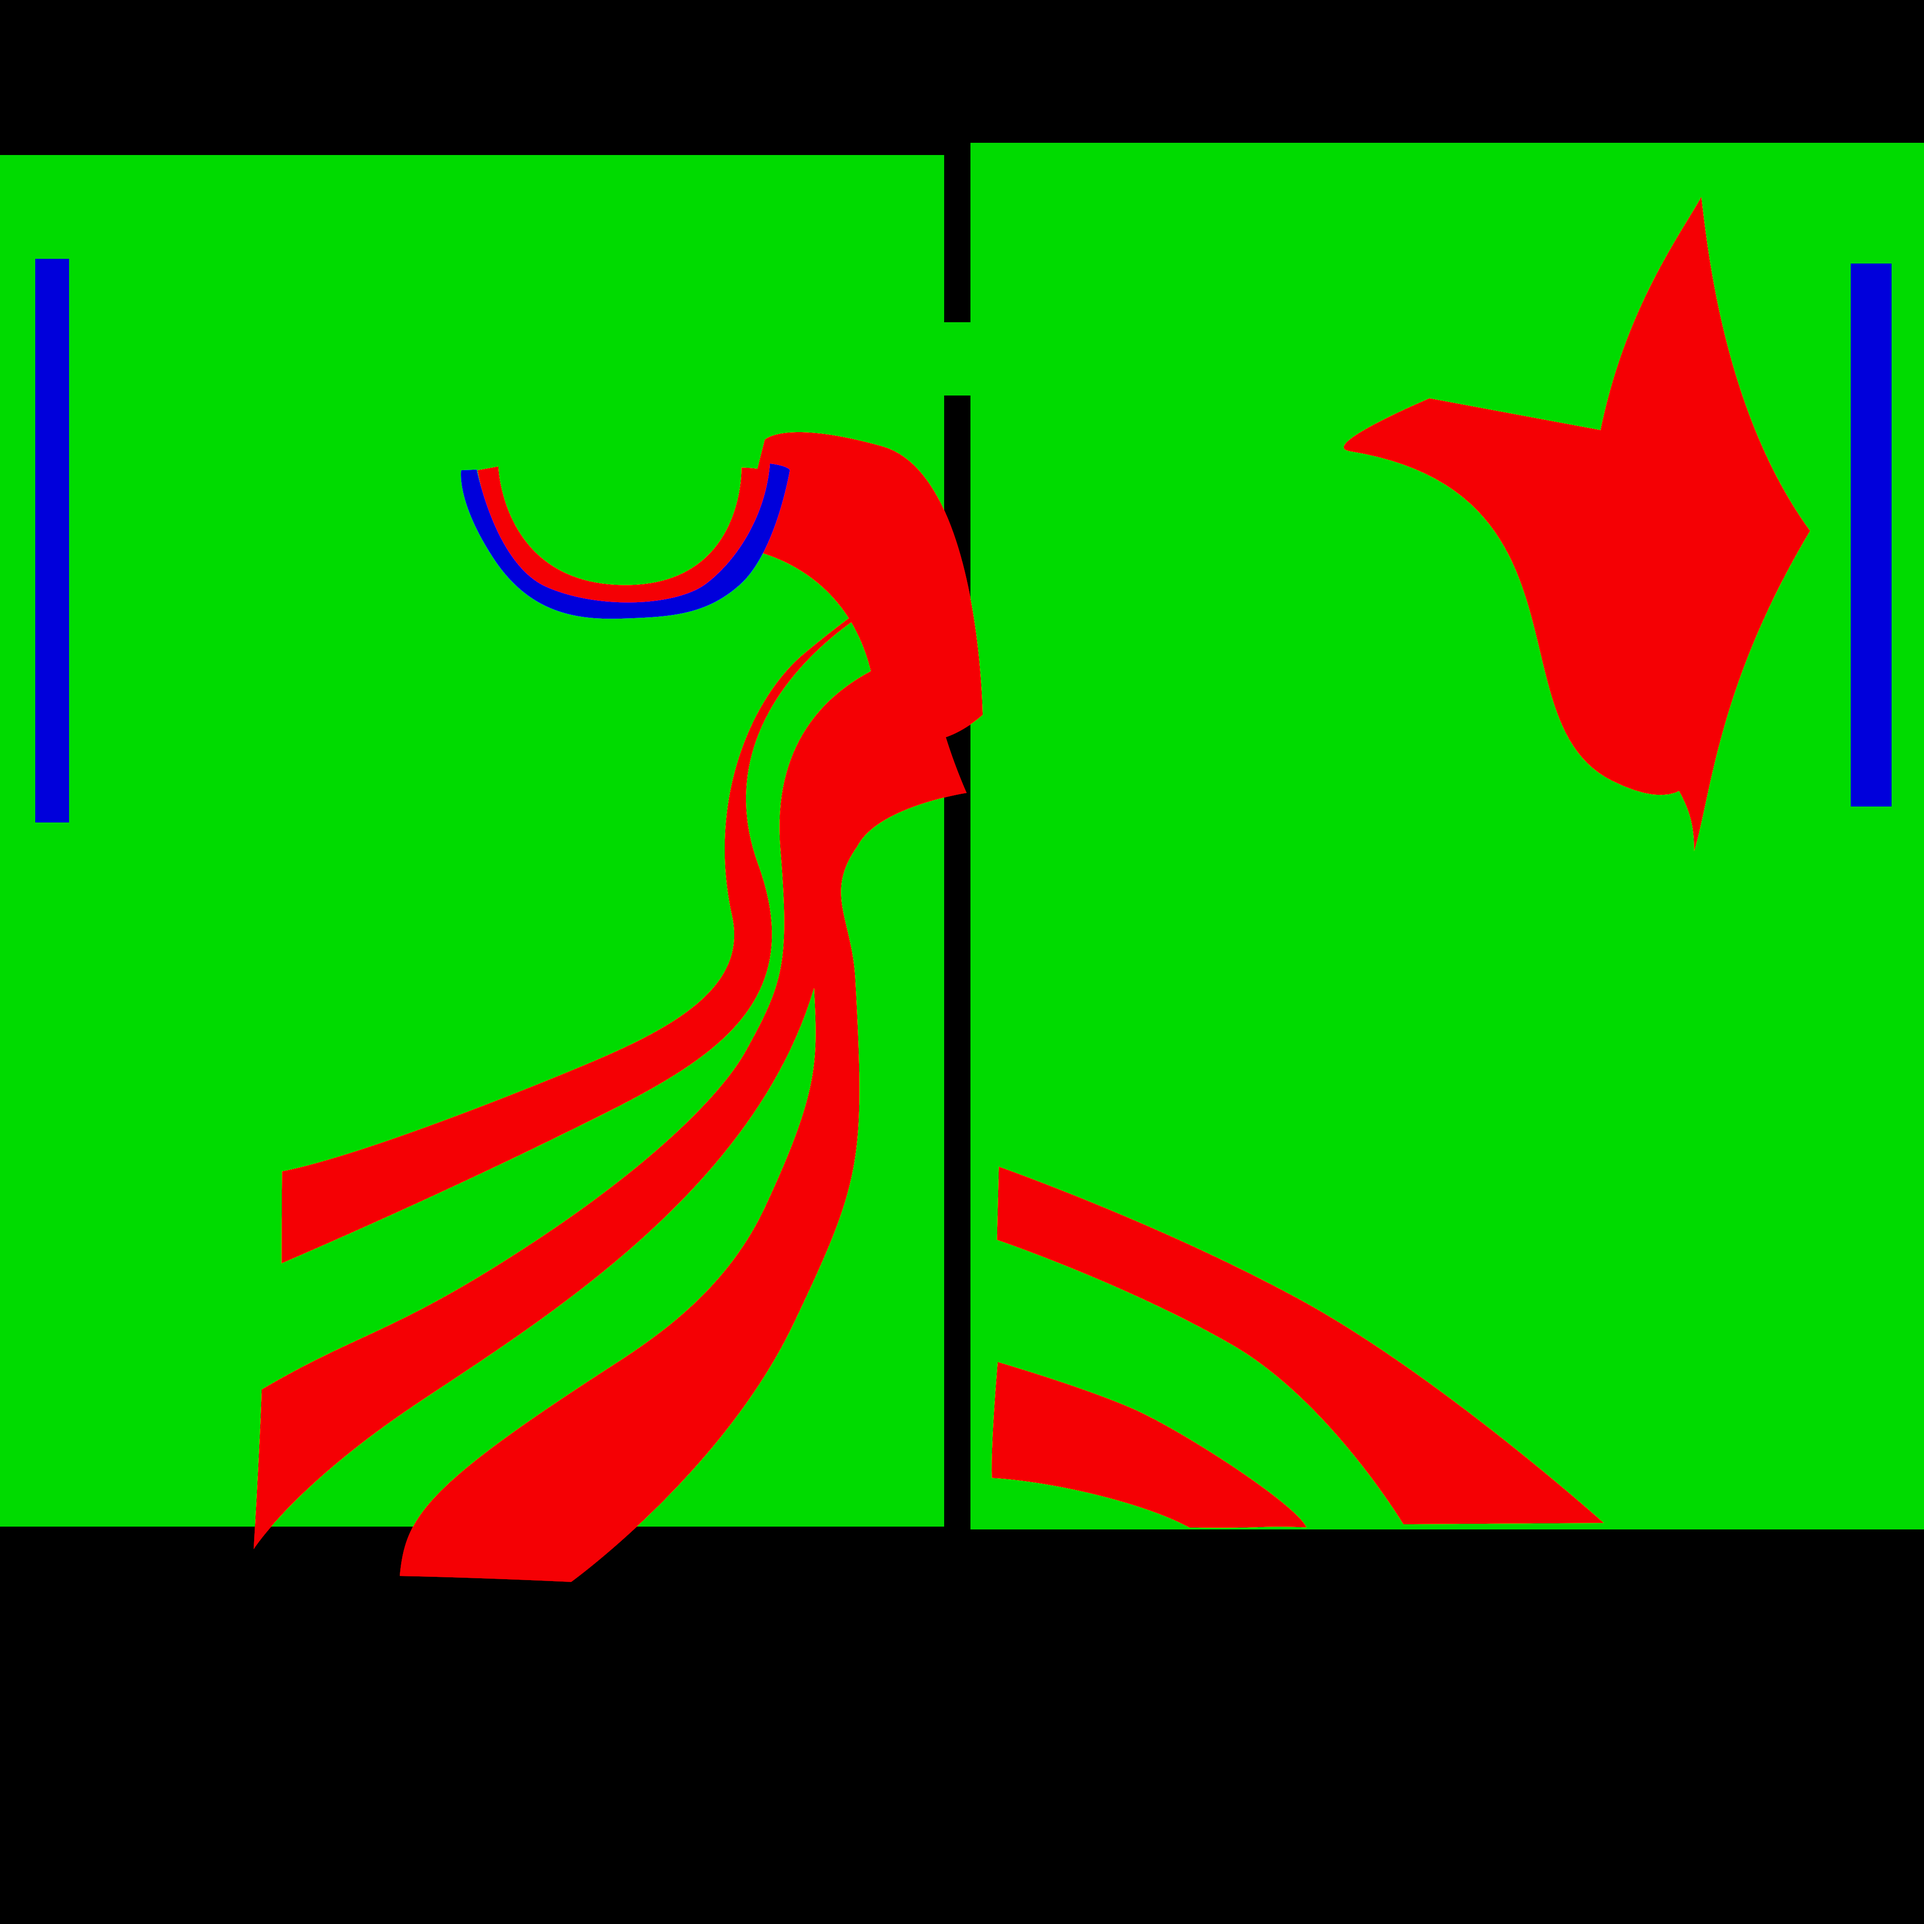
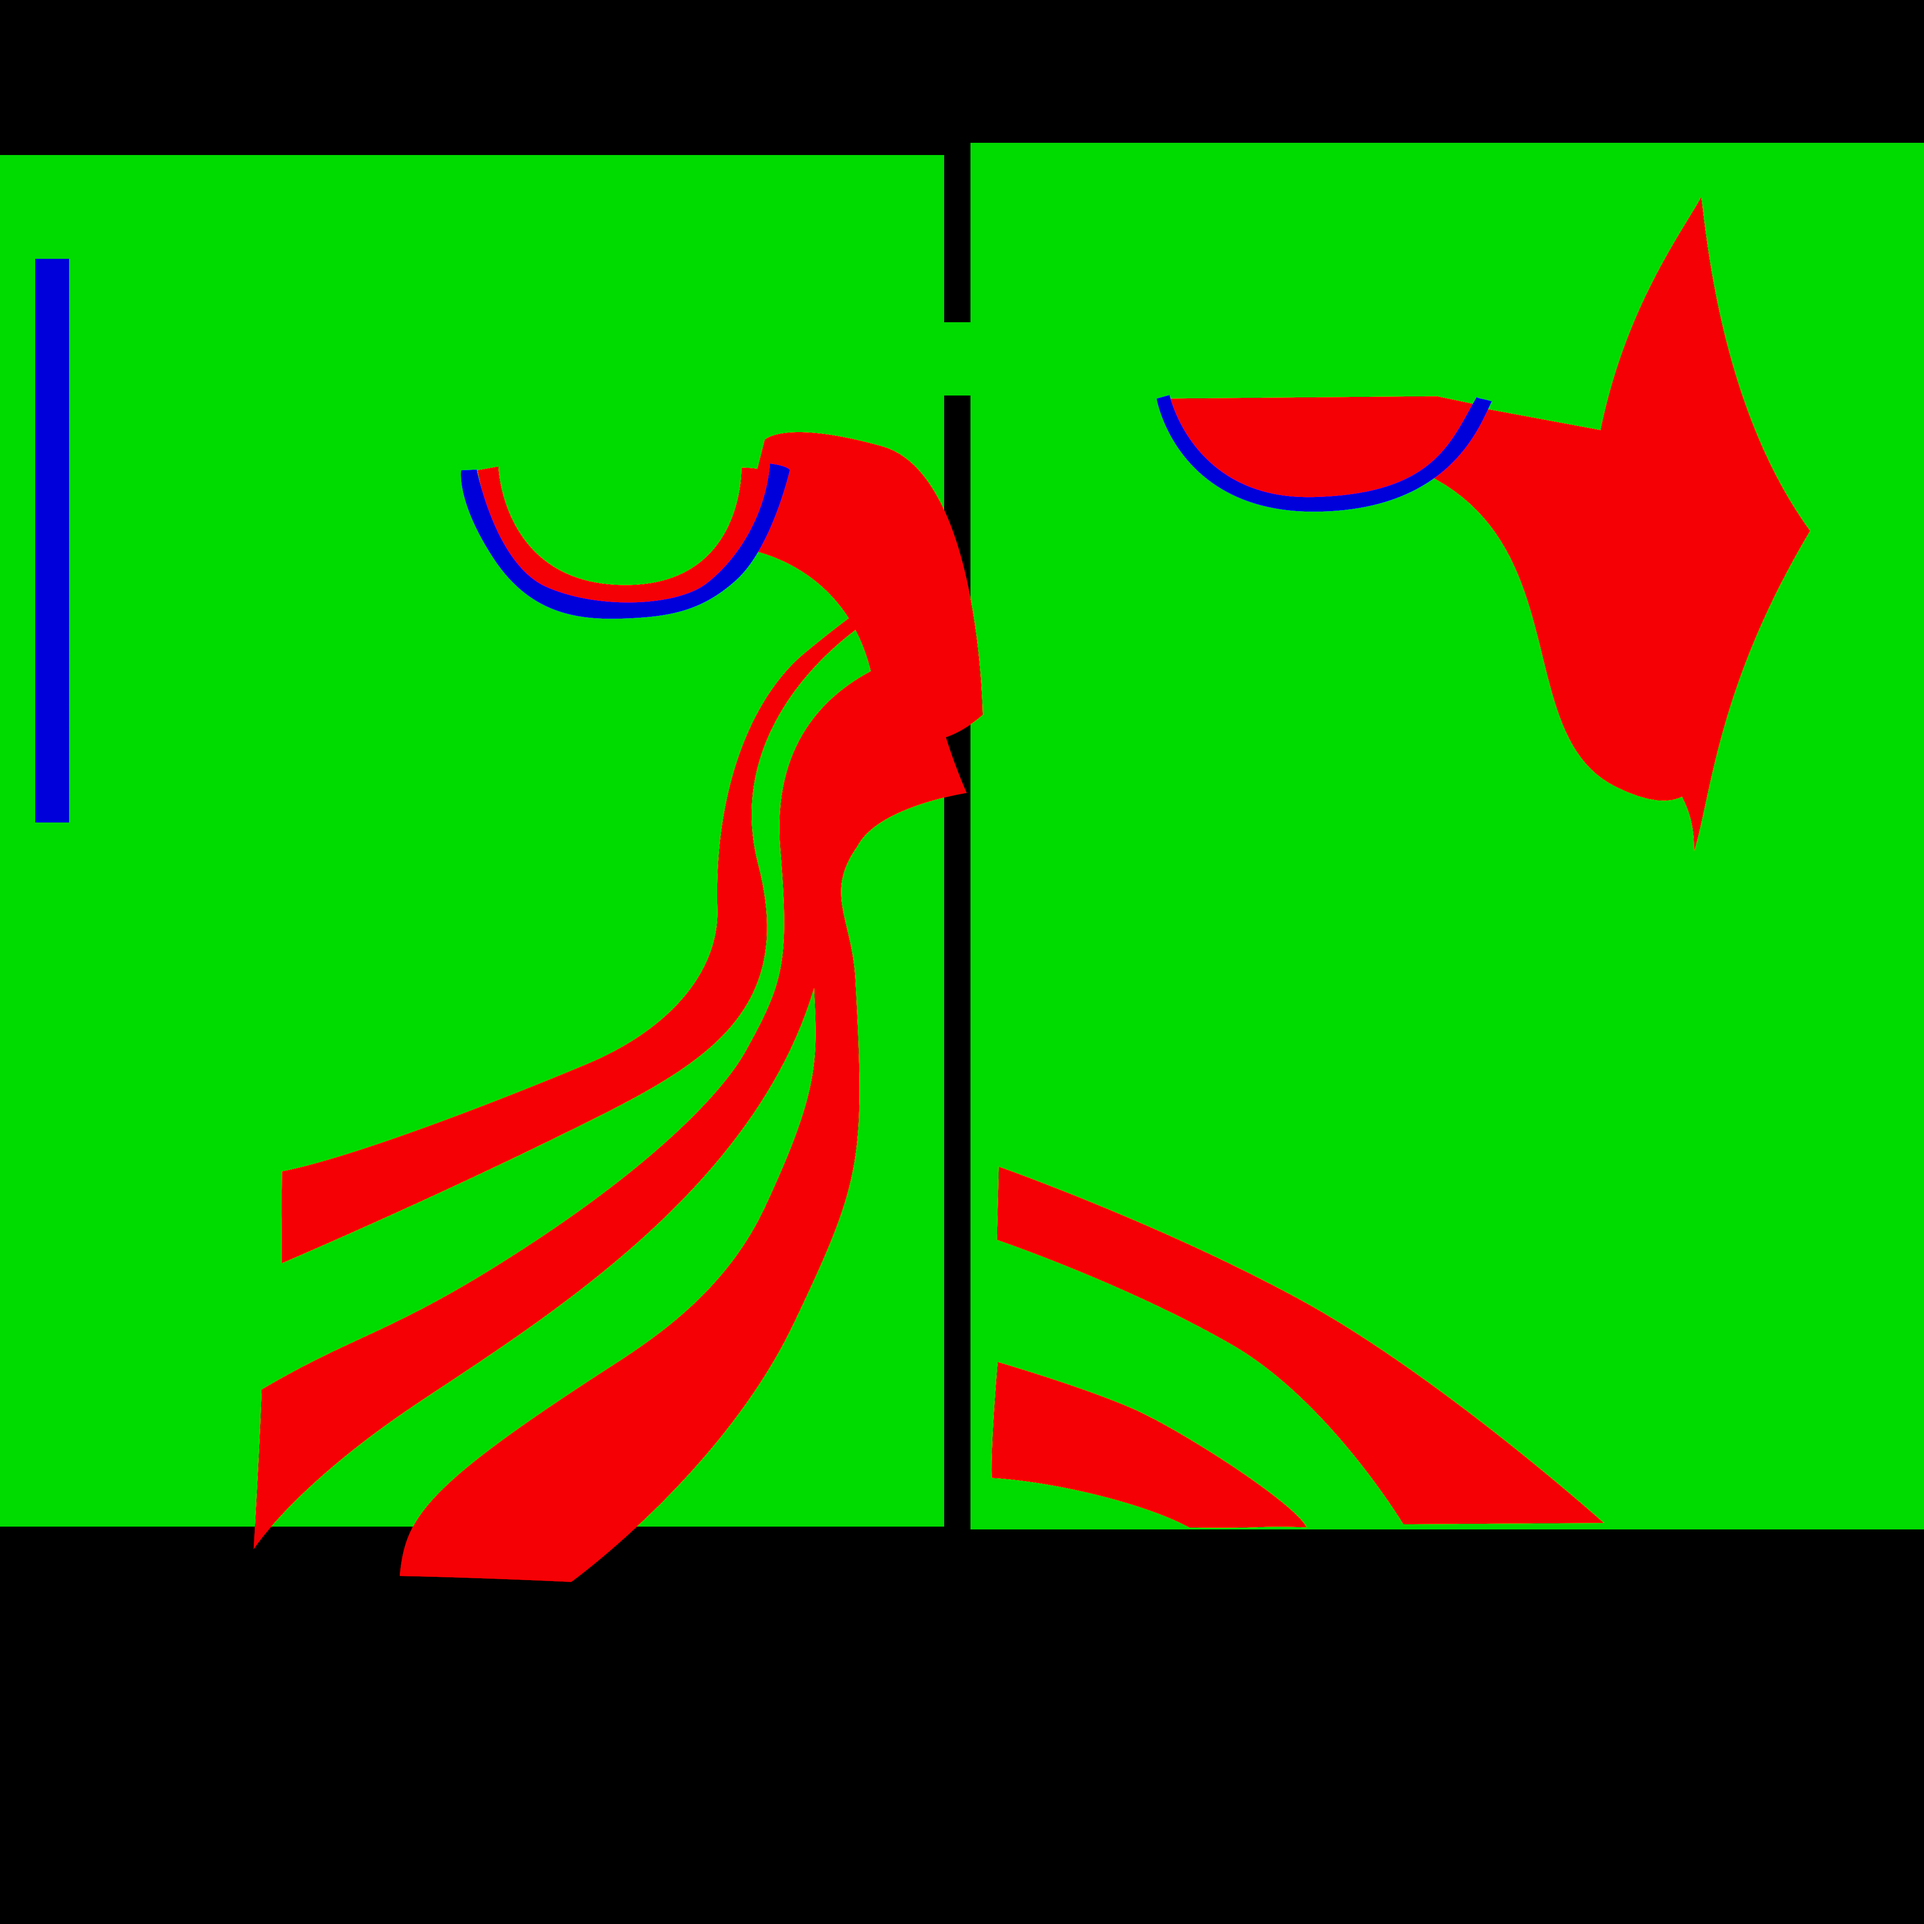
fixed wavy design, added stripes design

diff --git a/src/test.jsx b/src/test.jsx
@@ -1,0 +1,131 @@
+/*--------------------
+Author: Fabio Ottaviani
+https://linktr.ee/supahfunk
+--------------------*/
+
+import { useEffect, useMemo, useRef } from 'react'
+import {
+  CanvasTexture,
+  LinearMipMapLinearFilter,
+  NearestFilter,
+  DoubleSide
+} from 'three'
+import { Canvas, useThree } from '@react-three/fiber'
+import { OrbitControls } from '@react-three/drei'
+// import moment from 'moment'
+// import './styles.css'
+import {
+    useGLTF,
+    useCursor,
+    useTexture,
+    Text,
+    Decal,
+    Environment,
+    RenderTexture,
+    RandomizedLight,
+    PerspectiveCamera,
+    AccumulativeShadows
+  } from '@react-three/drei'
+
+class CanvasCountdown {
+  constructor(obj) {
+    Object.assign(this, obj)
+    if (!document.getElementById('canvas-countdown')) {
+      this.canvas = document.createElement('canvas')
+      this.canvas.id = 'canvas-countdown'
+      document.body.appendChild(this.canvas)
+    } else {
+      this.canvas = document.getElementById('canvas-countdown')
+    }
+    this.size = 1024
+    this.canvas.width = this.canvas.height = this.size
+    this.ctx = this.canvas.getContext('2d')
+    this.ctx.textAlign = 'center'
+    this.ctx.fillStyle = 'red'
+    this.text = 'COUNTDOWN'
+    this.update()
+  }
+
+  update() {
+    this.ctx.fillStyle = 'black'
+    this.ctx.fillRect(0, 0, this.size, this.size)
+
+    this.ctx.fillStyle = 'white'
+    // Upper text
+    this.ctx.font = '60px Roboto'
+    this.ctx.fillText(this.text, this.size / 2, this.size / 2 - 100)
+
+    // Lower text
+    this.ctx.font = '200px Roboto'
+    this.ctx.fillText(this.countdown, this.size / 2, this.size / 2 + 100)
+  }
+}
+
+const decimalNumber = (num) => (num.toString().length <= 1 ? `0${num}` : num)
+
+const Countdown = (props) => {
+  const material = useRef();
+  const interval = useRef();
+  const canvasCountdown = useMemo(() => {
+    return new CanvasCountdown({ countdown: 10 });
+  }, []);
+  const texture = useMemo(() => {
+    return new CanvasTexture(canvasCountdown.canvas);
+  }, [canvasCountdown]);
+  const { gl } = useThree();
+
+  // Hardcoded target date (replace with your desired date/time)
+  const targetDate = new Date('2022-02-01T18:30:20.000Z');
+
+  useEffect(() => {
+    texture.anisotropy = gl.capabilities.getMaxAnisotropy();
+    texture.minFilter = LinearMipMapLinearFilter;
+    texture.magFilter = NearestFilter;
+    material.current.alphaMap = texture;
+
+    interval.current = setInterval(() => {
+      const now = new Date();
+      let diff = Math.max(0, targetDate - now);
+
+      const d = decimalNumber(Math.floor(diff / (1000 * 60 * 60 * 24)));
+      const h = decimalNumber(Math.floor((diff / (1000 * 60 * 60)) % 24));
+      const m = decimalNumber(Math.floor((diff / (1000 * 60)) % 60));
+      const s = decimalNumber(Math.floor((diff / 1000) % 60));
+
+      canvasCountdown.countdown = `${d}:${h}:${m}:${s}`;
+      canvasCountdown.update();
+
+      texture.needsUpdate = true;
+
+      if (diff <= 0) {
+        clearInterval(interval.current);
+      }
+    }, 100);
+
+    return () => clearInterval(interval.current);
+  }, []);
+  const { nodes } = useGLTF('/assets/prpJersey/model.glb')
+//<mesh castShadow receiveShadow geometry={nodes.poseC_jersey_geo.geometry} {...props} dispose={null}>
+  return (
+    <mesh position={[0,-8,0]} castShadow receiveShadow geometry={nodes.poseC_jersey_geo.geometry} {...props} dispose={null}>
+      <meshBasicMaterial
+        ref={material}
+        side={DoubleSide}
+        color={0x000000}
+        transparent={true}
+      />
+    </mesh>
+  );
+};
+
+export default function App() {
+  return (
+    <>
+      <Canvas camera={{ position: [0, -0.2, 1] }}>
+        <color attach="background" args={[0xeeeeee]} />
+        <OrbitControls />
+        <Countdown date="2022-02-01T18:30:20.000Z" />
+      </Canvas>
+    </>
+  );
+}

diff --git a/src/data/colors.ts b/src/data/colors.ts
@@ -1,7 +1,7 @@
 import { ColorSwatch } from '../types';
 
 export const ColorSwatches: ColorSwatch[] = [
-  { primary_color: '#c7180c', secondary_color: '#ffffff', tertiary_color: '#141d33', icon_color: '#c7180c', type: 'color', name: 'Home', id: 'color_home', metalness: 0, roughness: 0.3 },
+  { primary_color: '#c7180c', secondary_color: '#ffffff', tertiary_color: '#000000', icon_color: '#c7180c', type: 'color', name: 'Home', id: 'color_home', metalness: 0, roughness: 0.3 },
   { primary_color: '#ffffff', secondary_color: '#141d33', tertiary_color: '#c7180c', icon_color: '#c7180c', type: 'color', name: 'Away', id: 'color_away', metalness: 0, roughness: 0.3 },
   { primary_color: '#c7180c', secondary_color: '#141d33', tertiary_color: '#ffffff', icon_color: '#c7180c', type: 'color', name: 'Mixed', id: 'color_mixed', metalness: 0, roughness: 0.3 },
 ];

diff --git a/src/main.jsx b/src/main.jsx
@@ -8,6 +8,7 @@ import { Canvas } from '@react-three/fiber';
 import { Suspense } from 'react';
 import Loading from './Loading.jsx';
 import App from './App.jsx';
+// import App from './test.jsx'; // Change this to your main component file
 import Ui from './Ui.tsx';
 import Moxel from './components/Moxel.jsx';
 import OrderLightBox from './components/OrderLightBox.tsx';
@@ -31,3 +32,7 @@ root.render(
     </Canvas>
   </React.StrictMode>
 );
+
+
+
+// root.render(<App />)

diff --git a/src/data/jersey.ts b/src/data/jersey.ts
@@ -24,10 +24,10 @@ export const jerseyVariants: JerseyVariant[] = [
         icon: BodyViperIcon,
     },
     {
-        id: 'base_design2',
-        name: 'Base Design 2',
+        id: 'base_stripes',
+        name: 'Base Stripes',
         type: 'base',
-        texture: 'base-design-2',
+        texture: 'tex_base_stripes',
         offsetPos: [0,0],   
         icon: BodyArrowIcon,
     },

diff --git a/src/stores/useVariant.jsx b/src/stores/useVariant.jsx
@@ -3,8 +3,7 @@ import { create } from 'zustand';
 export default create((set, get) => ({
     // Guitar state
     preset: 'preset_merlion',
-    base: 'base_wavy',
-    texture: 'base-design-1',
+    base: 'base_stripes',
     motif: 'motif_merlion',
     font: 'font_bebasneue',
     jerseyName: 'SG',
